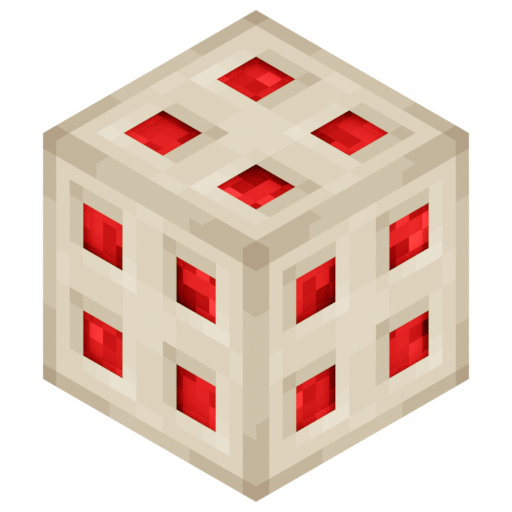
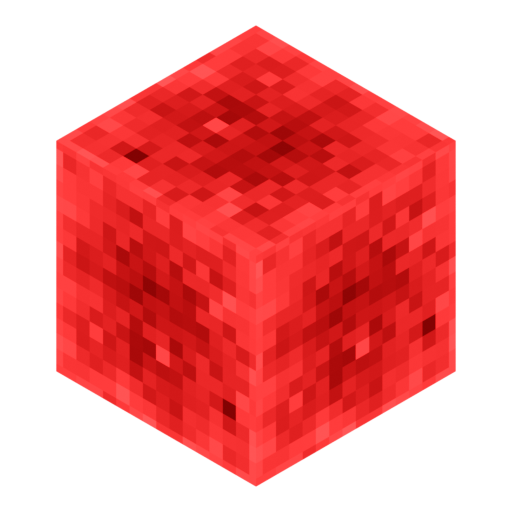
update the texture to look nicer + the thing actually works now

diff --git a/src/main/java/net/scmods/blocks/RandomRedstoneBlock.java b/src/main/java/net/scmods/blocks/RandomRedstoneBlock.java
@@ -1,37 +1,43 @@
 package net.scmods.blocks;
 
-import net.minecraft.block.AbstractBlock;
-import net.minecraft.block.BlockRenderType;
-import net.minecraft.block.BlockState;
-import net.minecraft.block.BlockWithEntity;
+import net.minecraft.block.*;
 import net.minecraft.block.entity.BlockEntity;
-import net.minecraft.block.entity.BlockEntityTicker;
 import net.minecraft.block.entity.BlockEntityType;
 import net.minecraft.util.math.BlockPos;
-import net.minecraft.world.World;
+import net.minecraft.util.math.Direction;
+import net.minecraft.world.BlockView;
+import net.scmods.BlockEntityHost;
 import net.scmods.RandomRedstone;
 import net.scmods.blockentities.RandomRedstoneBlockEntity;
-import org.jetbrains.annotations.Nullable;
 
-public class RandomRedstoneBlock extends BlockWithEntity {
-
+public class RandomRedstoneBlock extends Block implements BlockEntityHost {
     public RandomRedstoneBlock(AbstractBlock.Settings settings) {
         super(settings);
     }
     @Override
     public BlockRenderType getRenderType(BlockState state) {
-        // With inheriting from BlockWithEntity this defaults to INVISIBLE, so we need to change that!
         return BlockRenderType.MODEL;
     }
 
-    @Nullable
     @Override
-    public BlockEntity createBlockEntity(BlockPos pos, BlockState state) {
-        return null;
+    public BlockEntityType<RandomRedstoneBlockEntity> getBlockEntityType() {
+        return RandomRedstone.RRB_BlockEntity;
     }
 
     @Override
-    public <T extends BlockEntity> BlockEntityTicker<T> getTicker(World world, BlockState state, BlockEntityType<T> type) {
-        return checkType(type, RandomRedstone.RRB_BlockEntity, (world1, pos, state1, be) -> RandomRedstoneBlockEntity.tick(world1, pos, state1, be));
+    public BlockEntity createBlockEntity(BlockPos blockPos, BlockState blockState) {
+        return new RandomRedstoneBlockEntity(blockPos, blockState);
+    }
+
+    @Override
+    public boolean emitsRedstonePower(BlockState state) {
+        return true;
+    }
+
+    @Override
+    public int getWeakRedstonePower(BlockState state, BlockView world, BlockPos pos, Direction direction) {
+        if (world.getBlockEntity(pos) instanceof RandomRedstoneBlockEntity rng)
+            return rng.getWeakRedstonePower();
+        return 0;
     }
 }

diff --git a/src/main/java/net/scmods/BlockEntityHost.java b/src/main/java/net/scmods/BlockEntityHost.java
@@ -1,15 +1,23 @@
+package net.scmods;
+
+import net.minecraft.block.BlockEntityProvider;
+import net.minecraft.block.BlockState;
+import net.minecraft.block.entity.BlockEntity;
+import net.minecraft.block.entity.BlockEntityTicker;
+import net.minecraft.block.entity.BlockEntityType;
+import net.minecraft.world.World;
+
 /** Subinterface of BlockEntityProvider that reduces type checking and conversion boilerplate related to tickers.<br>
  *  This interface should be implemented by the {@code Block}.<br>
  *  The {@code BlockEntity} must implement {@link BlockEntityHost.Hosted}.
  *  @param <T> class of the block entity hosted by this block
  *  @author Daomephsta
  */
-public interface BlockEntityHost<T extends BlockEntity & BlockEntityHost.Hosted> extends BlockEntityProvider
-{
+
+public interface BlockEntityHost<T extends BlockEntity & BlockEntityHost.Hosted> extends BlockEntityProvider {
     @Override
     public default <U extends BlockEntity> BlockEntityTicker<U> getTicker(
-        World world, BlockState state, BlockEntityType<U> actualType)
-    {
+            World world, BlockState state, BlockEntityType<U> actualType) {
         if (actualType == getBlockEntityType())
             return (a, b, c, blockEntity) -> ((Hosted) blockEntity).tick();
         return null;
@@ -17,13 +25,7 @@ public interface BlockEntityHost<T extends BlockEntity & BlockEntityHost.Hosted>
 
     public BlockEntityType<T> getBlockEntityType();
 
-    /**
-     * Implement this interface on any {@code BlockEntity} hosted by a
-     * {@code Block} that implements {@code BlockEntityHost}
-     * @author Daomephsta
-     */
-    public interface Hosted
-    {
+    public interface Hosted {
         public void tick();
     }
 }

diff --git a/src/main/java/net/scmods/RandomRedstone.java b/src/main/java/net/scmods/RandomRedstone.java
@@ -4,10 +4,11 @@ import net.fabricmc.fabric.api.blockrenderlayer.v1.BlockRenderLayerMap;
 import net.fabricmc.fabric.api.client.itemgroup.FabricItemGroupBuilder;
 import net.fabricmc.fabric.api.item.v1.FabricItemSettings;
 import net.fabricmc.fabric.api.object.builder.v1.block.FabricBlockSettings;
+import net.fabricmc.fabric.api.object.builder.v1.block.entity.FabricBlockEntityTypeBuilder;
 import net.minecraft.block.Block;
 import net.minecraft.block.Material;
 import net.minecraft.block.AbstractBlock.Settings;
-import net.minecraft.block.entity.BlockEntity;
+import net.minecraft.block.entity.BlockEntityType;
 import net.minecraft.client.render.RenderLayer;
 import net.minecraft.item.BlockItem;
 import net.minecraft.item.ItemGroup;
@@ -25,7 +26,12 @@ public class RandomRedstone implements ModInitializer {
     public static final Settings RRB_Settings = FabricBlockSettings.of(Material.METAL)
             .strength(5.0F, 6.0F).sounds(BlockSoundGroup.METAL).nonOpaque();
     public static final Block RRB_Block = new RandomRedstoneBlock(RRB_Settings);
-    public static final BlockEntity RRB_BlockEntity = new RandomRedstoneBlockEntity();
+
+    public static final BlockEntityType<RandomRedstoneBlockEntity> RRB_BlockEntity = Registry.register(
+            Registry.BLOCK_ENTITY_TYPE,
+            new Identifier("tutorial", "demo_block_entity"),
+            FabricBlockEntityTypeBuilder.create(RandomRedstoneBlockEntity::new, RRB_Block).build()
+    );
 
     // Create Group
     public static final ItemGroup RR_GROUP = FabricItemGroupBuilder.create(new Identifier(MODID, "randomredstoneitemgroup"))

diff --git a/src/main/java/net/scmods/blockentities/RandomRedstoneBlockEntity.java b/src/main/java/net/scmods/blockentities/RandomRedstoneBlockEntity.java
@@ -1,7 +1,33 @@
 package net.scmods.blockentities;
 
+import net.minecraft.block.BlockState;
 import net.minecraft.block.entity.BlockEntity;
+import net.minecraft.util.math.BlockPos;
+import net.scmods.BlockEntityHost;
+import net.scmods.RandomRedstone;
 
-public class RandomRedstoneBlockEntity extends BlockEntity {
-    
+public class RandomRedstoneBlockEntity extends BlockEntity implements BlockEntityHost.Hosted {
+    private int power = 0;
+    private boolean latched = false;
+
+    public RandomRedstoneBlockEntity(BlockPos pos, BlockState state) {
+        super(RandomRedstone.RRB_BlockEntity, pos, state);
+    }
+
+    @Override
+    public void tick()
+    {
+        this.latched = false;
+        this.world.updateNeighbors(getPos(), getCachedState().getBlock());
+    }
+
+    public int getWeakRedstonePower()
+    {
+        if (!this.latched)
+        {
+            this.power = this.world.random.nextBetween(0, 15);
+            this.latched = true;
+        }
+        return this.power;
+    }
 }
